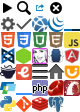
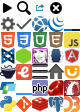
Add D3.js documentation

Changed region(s): [[0.8, 0.8571, 1.0, 1.0]]

diff --git a/assets/stylesheets/global/_icons.scss b/assets/stylesheets/global/_icons.scss
@@ -45,3 +45,4 @@
 ._icon-git:before           { background-position: -1rem -6rem; }
 ._icon-redis:before         { background-position: -2rem -6rem; }
 ._icon-postgresql:before    { background-position: -3rem -6rem; }
+._icon-d3:before            { background-position: -4rem -6rem; }

diff --git a/assets/stylesheets/pages/_d3.scss b/assets/stylesheets/pages/_d3.scss
@@ -1,0 +1,6 @@
+._d3 {
+  > h2 { @extend %block-heading; }
+  > h3, > h4 { font-size: 1rem; }
+  > h6 { @extend %block-label, %label-blue; }
+  code { @extend %label; }
+}

diff --git a/assets/stylesheets/application.css.scss b/assets/stylesheets/application.css.scss
@@ -29,6 +29,7 @@
 
 @import 'pages/angular',
         'pages/coffeescript',
+        'pages/d3',
         'pages/ember',
         'pages/jquery',
         'pages/git',

diff --git a/lib/docs/filters/d3/clean_html.rb b/lib/docs/filters/d3/clean_html.rb
@@ -1,0 +1,42 @@
+module Docs
+  class D3
+    class CleanHtmlFilter < Filter
+      def call
+        css('#gollum-footer', '.markdown-body > blockquote:first-child', '.anchor').remove
+
+        # Replace #head with <h1>
+        css('#head > h1').each do |node|
+          node.parent.before(node).remove
+          node.content = 'D3.js' if root_page?
+        end
+
+        # Move content to the root-level
+        css('#wiki-content').each do |node|
+          node.before(node.at_css('.markdown-body').children).remove
+        end
+
+        # Remove links inside <h2>
+        css('h2 > a').each do |node|
+          node.before(node.children).remove
+        end
+
+        # Make headings for function definitions and add "id" attributes
+        css('p > a:first-child').each do |node|
+          next unless node['name'] || node.content == '#'
+          parent = node.parent
+          parent.name = 'h6'
+          parent['id'] = (node['name'] || node['href'].sub(/\A.+#/, '')).sub('wiki-', '')
+          parent.css('a[name]').remove
+          node.remove
+        end
+
+        # Remove code highlighting
+        css('.highlight > pre').each do |node|
+          node.content = node.content
+        end
+
+        doc
+      end
+    end
+  end
+end

diff --git a/lib/docs/scrapers/d3.rb b/lib/docs/scrapers/d3.rb
@@ -1,0 +1,43 @@
+module Docs
+  class D3 < UrlScraper
+    self.name = 'D3.js'
+    self.slug = 'd3'
+    self.type = 'd3'
+    self.version = '3.4.1'
+    self.base_url = 'https://github.com/mbostock/d3/wiki/'
+    self.root_path = 'API-Reference'
+
+    html_filters.push 'd3/clean_html', 'd3/entries'
+
+    options[:container] = '#wiki-wrapper'
+
+    options[:only] = %w(
+      Selections
+      Transitions
+      Arrays
+      Math
+      Requests
+      Formatting
+      CSV
+      Localization
+      Colors
+      Namespaces
+      Internals)
+
+    options[:only_patterns] = [
+      /\-Scales\z/,
+      /\ASVG\-/,
+      /\ATime\-/,
+      /\-Layout\z/,
+      /\AGeo\-/,
+      /\-Geom\z/,
+      /\-Behavior\z/]
+
+    options[:skip_patterns] = [/\//]
+
+    options[:attribution] = <<-HTML
+      &copy; 2014 Michael Bostock<br>
+      Licensed under the BSD License.
+    HTML
+  end
+end

diff --git a/lib/docs/filters/d3/entries.rb b/lib/docs/filters/d3/entries.rb
@@ -1,0 +1,22 @@
+module Docs
+  class D3
+    class EntriesFilter < Docs::EntriesFilter
+      def get_name
+        at_css('h1').content
+      end
+
+      def get_type
+        name
+      end
+
+      def additional_entries
+        css('h6[id]').inject [] do |entries, node|
+          name = node.content
+          name.sub! %r{\(.*\z}, ''
+          entries << [name, node['id']] unless name == entries.last.try(:first)
+          entries
+        end
+      end
+    end
+  end
+end
